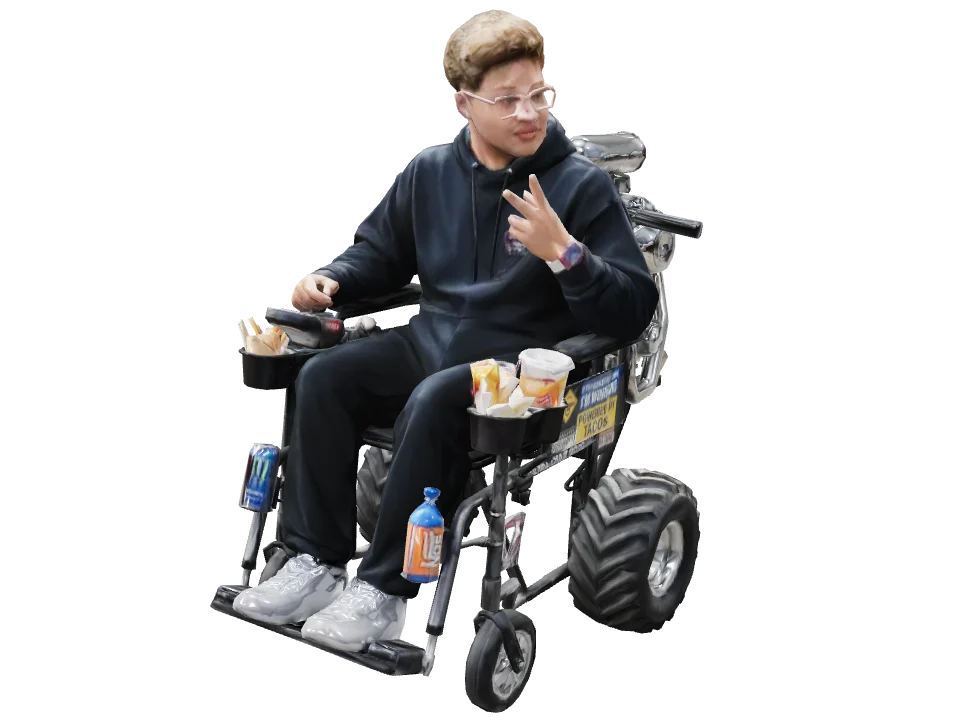
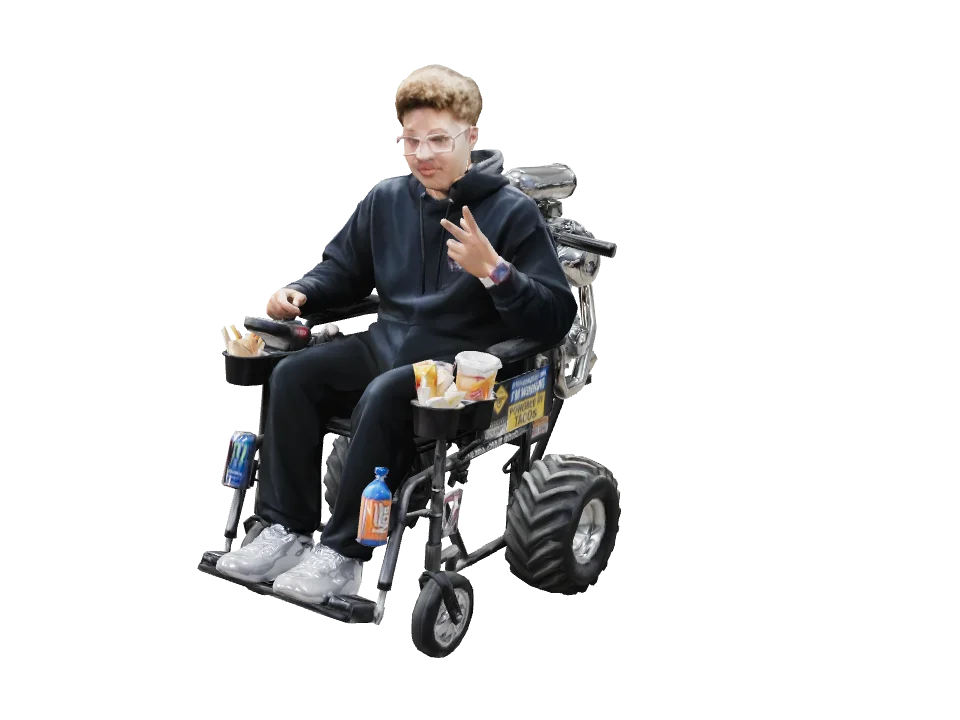
Orangie faces forward for real: his head was turned ~45 deg, not enough correction before; calmer idle look; Garage picture matches

Changed region(s): [[0.1875, 0.0, 0.75, 1.0]]

diff --git a/src/client/racer3d.ts b/src/client/racer3d.ts
@@ -298,7 +298,7 @@ export function buildRacer(id: string, color: string): RacerParts {
     // it looks around and bobs to the beat
     const vibe = Math.max(0, Math.sin(T * 7.5)) ** 2;
     pose.aHead.value.set(
-      look.step((skin.rig.face ?? 0) + clamp(-yawRate * 0.5, 0.45) + idle * Math.sin(T * 0.6) * 0.32, dt),
+      look.step((skin.rig.face ?? 0) + clamp(-yawRate * 0.5, 0.45) + idle * Math.sin(T * 0.6) * 0.15, dt),
       nod.step(clamp(a * 0.018, 0.22) + idle * vibe * -0.12 + k * Math.sin(T * 11) * 0.025, dt),
       tilt.step(clamp(lat * 0.012, 0.22) + Math.sin(T * 1.3) * 0.04, dt),
     );

diff --git a/src/game/skins.ts b/src/game/skins.ts
@@ -43,7 +43,7 @@ export const SKINS: Skin[] = [
       [-0.5, 0.24, -0.1],
       [-0.5, 0.24, 0.1],
     ],
-    rig: { head: [-0.045, 0.87, 0, 0.1], neck: 0.755, face: -0.5, body: [-0.08, 0.48, 0.17, 0.27], wheels: [[-0.15, 0.12, 0.125], [0.22, 0.07, 0.065]] },
+    rig: { head: [-0.045, 0.87, 0, 0.1], neck: 0.755, face: -0.8, body: [-0.08, 0.48, 0.17, 0.27], wheels: [[-0.15, 0.12, 0.125], [0.22, 0.07, 0.065]] },
   },
   {
     id: 'tjr',
